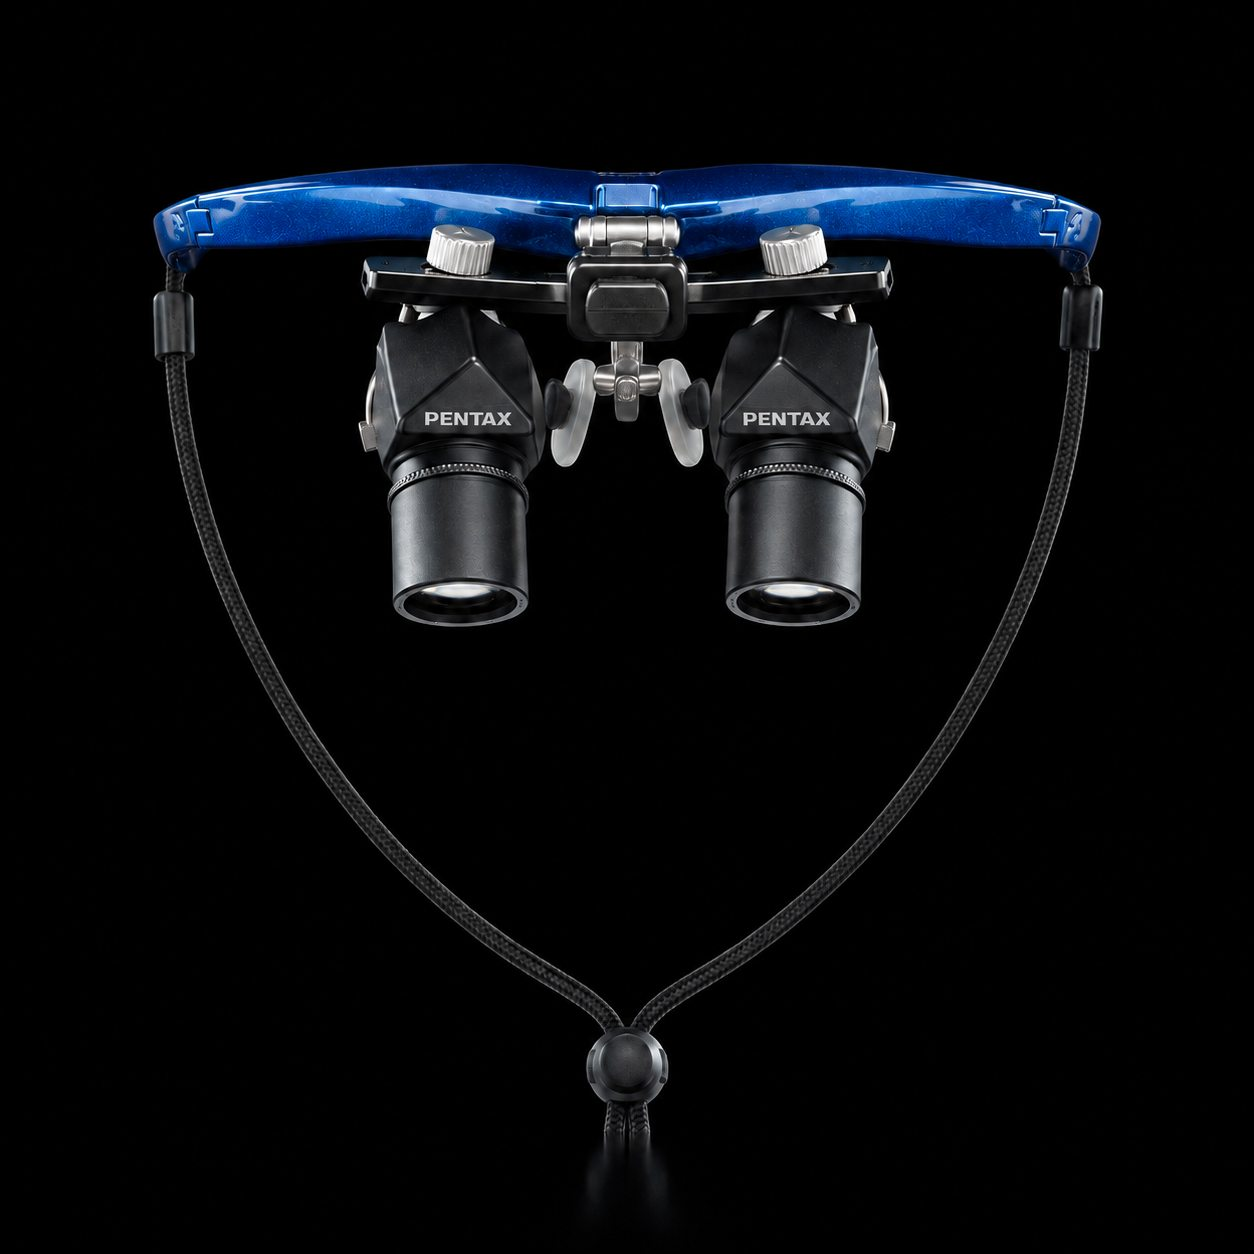
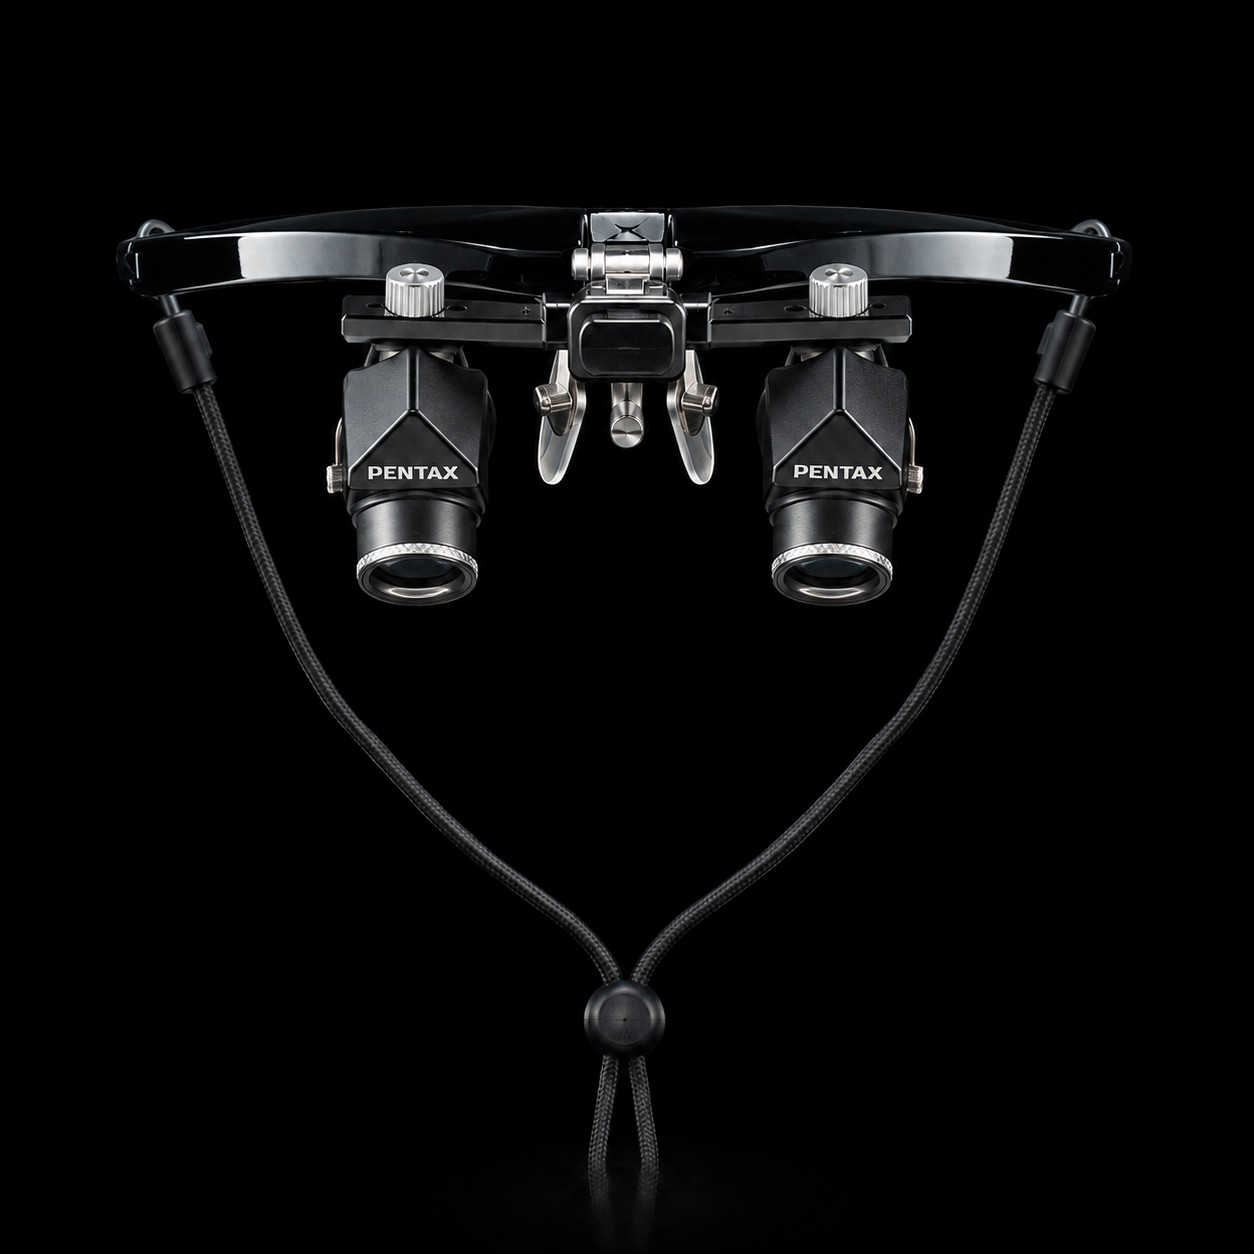
Fix Blue and Black colour renders in the configurator
Black was showing a blue render and Blue was a different blue variant.
Both colour cards and their large previews now use the correct images.

Changed region(s): [[0.0933, 0.1244, 0.9019, 0.933], [0.4354, 0.7153, 0.4665, 0.7464]]

diff --git a/index.html b/index.html
@@ -605,14 +605,14 @@
             </button>
             <button type="button" class="cfg-colour" data-cfg-option="colour" data-value="Blue" aria-pressed="false">
               <span class="cfg-colour__media photo-slot" data-photo-slot>
-                <img src="images/colours/blue.jpg" alt="" hidden />
+                <img src="images/colours/blue.jpg?v=2" alt="" hidden />
                 <span class="photo-slot__placeholder"><span class="cfg-colour__dot" style="background:#2c5fe0"></span></span>
               </span>
               <span class="cfg-colour__name">Blue</span>
             </button>
             <button type="button" class="cfg-colour" data-cfg-option="colour" data-value="Black" aria-pressed="false">
               <span class="cfg-colour__media photo-slot" data-photo-slot>
-                <img src="images/colours/black.jpg" alt="" hidden />
+                <img src="images/colours/black.jpg?v=2" alt="" hidden />
                 <span class="photo-slot__placeholder"><span class="cfg-colour__dot" style="background:#1d1d1f"></span></span>
               </span>
               <span class="cfg-colour__name">Black</span>

diff --git a/js/main.js b/js/main.js
@@ -498,7 +498,7 @@ function initConfigurator() {
   // light, Not sure) hide the preview. Magnification reuses the real
   // sample-view photos; the rest are photo slots waiting on client images.
   const PREVIEWS = {
-    colour: (v) => ({ src: `images/previews/colour-${v.toLowerCase()}.jpg`, label: v }),
+    colour: (v) => ({ src: `images/previews/colour-${v.toLowerCase()}.jpg?v=2`, label: v }),
     magnification: (v) =>
       /^\d/.test(v)
         ? { src: `images/mag-samples/mag-${v.replace("×", "").replace(".", "-")}.jpg`, label: `${v} sample view` }
